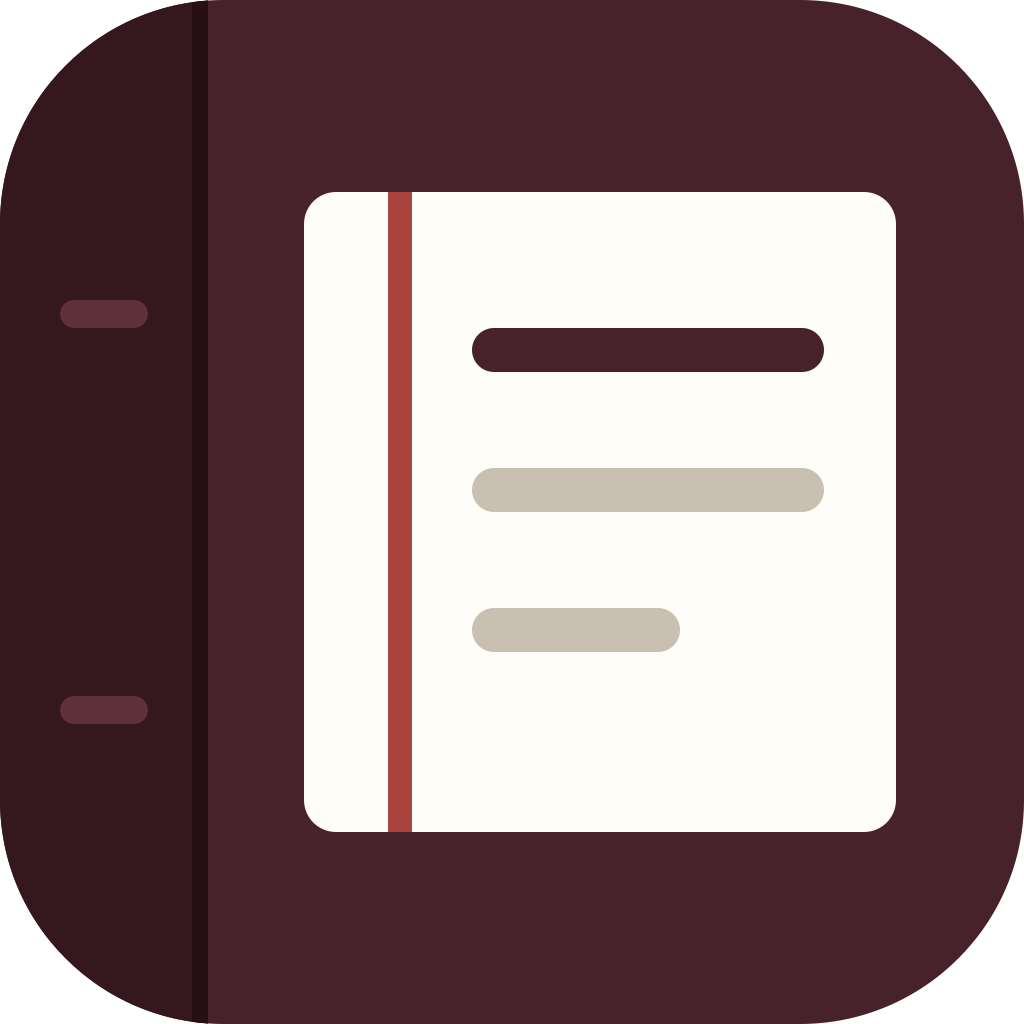
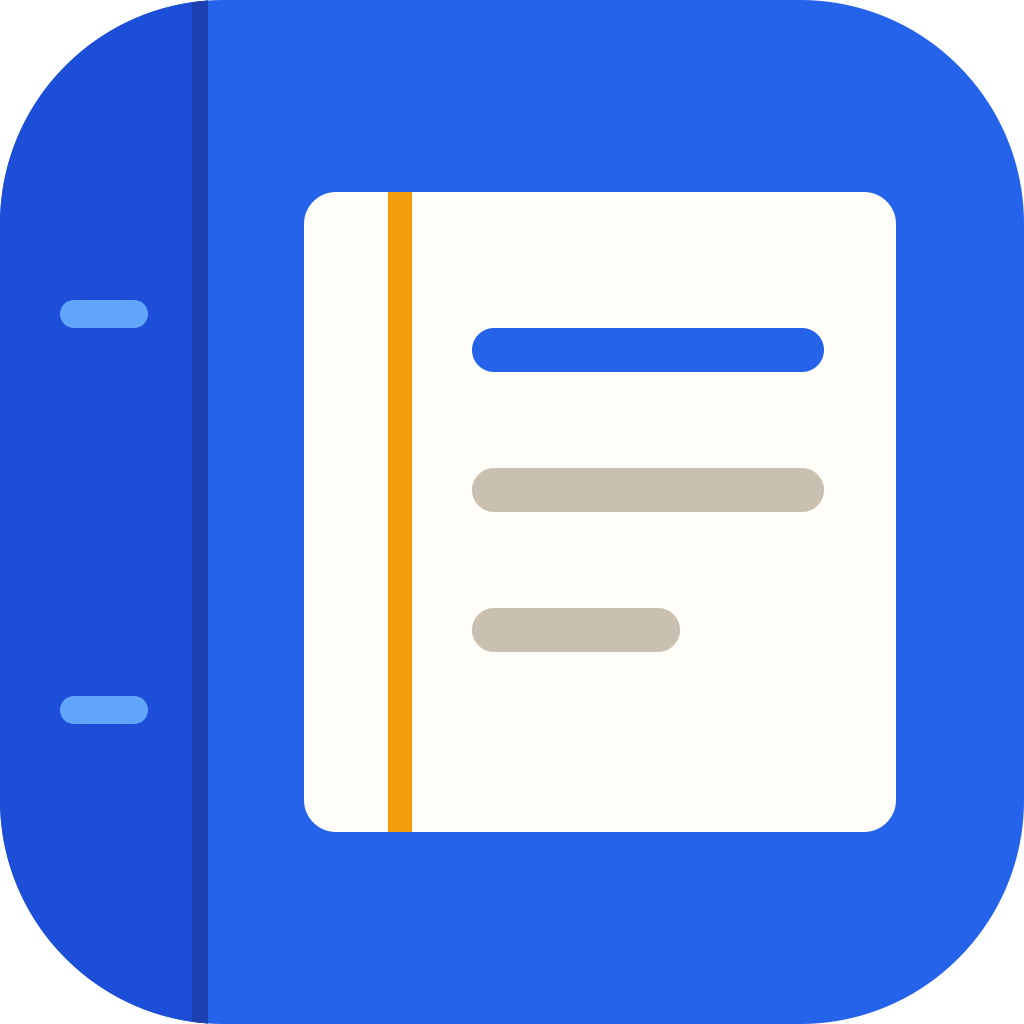
Acento azul vivo, colores con más vida, y las cifras que no cuadraban
BUG que reportaste primero: la tarjeta decía "Recaudado RD$ 96,700" y la barra
decía "RD$ 95,200 de RD$ 184,500". Dos cifras distintas para lo mismo en la
misma pantalla, porque una incluía el excedente y la otra no. Ahora las dos
muestran lo recaudado de verdad; el porcentaje se sigue calculando sobre el
capado para que la barra no pueda pasar del 100%.

Color
- El acento pasa de oxblood apagado a azul vivo #2563eb. 5.2:1 sobre blanco y
  con blanco encima, así que sirve igual de fondo de botón que de texto.
- Los estados dejan de estar lavados: verde #16a34a y ámbar #f59e0b, que se
  leen como estados y no como papel viejo.
- Los colores de iglesia se renuevan a morado, rosa, turquesa, pizarra,
  ciruela y grafito. Ninguno es verde, ámbar ni azul: esos tres ya significan
  algo (los dos estados y el acento).
- La barra de progreso agregada usa el acento mientras falte y verde solo al
  llegar al 100%. Un total no tiene "estado de pago", así que teñirla de ámbar
  era prestarle un significado que no le toca.

El borde azulado de la primera tarjeta
- Era `ring-accion/15`: el acento con opacidad sobre blanco daba ese halo
  lavanda sucio. Ahora es borde sólido y fondo azul suave.

El menú
- La opción activa era blanca sobre gris casi igual y no se distinguía. Ahora
  lleva fondo azul suave, borde y texto del acento.

La marca y el manifiesto también pasan a azul, y el .ico se regeneró.

Verificado: 18/18 pares de color pasan AA, 32 pruebas en verde, 0 objetivos de
[…]

diff --git a/src/components/Piezas.tsx b/src/components/Piezas.tsx
@@ -18,7 +18,7 @@ type PropsBoton = ButtonHTMLAttributes<HTMLButtonElement> & {
 const VARIANTES: Record<TipoBoton, string> = {
   principal: 'bg-accion text-white hover:bg-accionAlto shadow-[0_1px_2px_rgba(58,42,28,0.12)]',
   contorno: 'bg-hoja text-tinta border border-lineaFuerte hover:border-tinta3 hover:bg-hoja2',
-  suave: 'bg-[rgba(138,51,64,0.07)] text-accion hover:bg-[rgba(138,51,64,0.12)]',
+  suave: 'bg-[rgba(37,99,235,0.08)] text-accion hover:bg-[rgba(37,99,235,0.14)]',
   texto: 'text-tinta2 hover:text-tinta hover:bg-[rgba(24,24,27,0.05)]',
 }
 
@@ -89,7 +89,7 @@ export const Campo = forwardRef<HTMLInputElement, PropsCampo>(function Campo(
             'w-full min-h-[46px] rounded-pieza bg-hoja px-3 py-2 text-tinta',
             'border transition-colors duration-150',
             problema ? 'border-accion' : 'border-lineaFuerte hover:border-tinta3',
-            'focus:border-accion focus:outline-none focus:ring-2 focus:ring-[rgba(138,51,64,0.18)]',
+            'focus:border-accion focus:outline-none focus:ring-2 focus:ring-[rgba(37,99,235,0.18)]',
             'placeholder:text-tinta3',
             adorno ? 'pl-10' : '',
             className,
@@ -213,30 +213,29 @@ export function Monto({
  * Colores de etiqueta de iglesia.
  *
  * Ninguno es verde ni ámbar A PROPÓSITO: esos dos ya significan "Pagado" y
- * "Abonando" en toda la app. Un punto verde de identidad al lado de un chip de
- * estado le enseña a leer el verde de dos maneras distintas, y entonces el
- * verde deja de querer decir nada.
+ * "Abonando" en toda la app. Tampoco azul: ese es el acento de las acciones.
+ * Un color que significa dos cosas deja de significar cualquiera.
  */
 const COLORES_IGLESIA: Record<string, string> = {
-  indigo: '#4a5578',
-  pizarra: '#41525c',
-  arcilla: '#8a5a3c',
-  ciruela: '#6d4560',
-  tabaco: '#6b4a2e',
-  humo: '#59555f',
+  purpura: '#7c3aed',
+  rosa: '#db2777',
+  cyan: '#0891b2',
+  pizarra: '#475569',
+  ciruela: '#a21caf',
+  grafito: '#57534e',
 }
 
 export const NOMBRES_COLOR: { valor: string; nombre: string }[] = [
-  { valor: 'indigo', nombre: 'Azul' },
+  { valor: 'purpura', nombre: 'Morado' },
+  { valor: 'rosa', nombre: 'Rosa' },
+  { valor: 'cyan', nombre: 'Turquesa' },
   { valor: 'pizarra', nombre: 'Pizarra' },
-  { valor: 'arcilla', nombre: 'Terracota' },
   { valor: 'ciruela', nombre: 'Ciruela' },
-  { valor: 'tabaco', nombre: 'Tabaco' },
-  { valor: 'humo', nombre: 'Humo' },
+  { valor: 'grafito', nombre: 'Grafito' },
 ]
 
 export function colorIglesia(color: string | null | undefined): string {
-  return COLORES_IGLESIA[color ?? 'arcilla'] ?? COLORES_IGLESIA.arcilla
+  return COLORES_IGLESIA[color ?? 'pizarra'] ?? COLORES_IGLESIA.pizarra
 }
 
 export function EtiquetaIglesia({

diff --git a/src/pages/RegistrarPago.tsx b/src/pages/RegistrarPago.tsx
@@ -282,7 +282,7 @@ export default function RegistrarPago() {
                     'cifra w-full rounded-pieza bg-hoja2 py-3 pl-[4.2rem] pr-4 text-cifraGrande font-semibold',
                     'border transition-colors duration-150',
                     problema ? 'border-accion' : 'border-lineaFuerte',
-                    'focus:border-accion focus:outline-none focus:ring-2 focus:ring-[rgba(138,51,64,0.18)]',
+                    'focus:border-accion focus:outline-none focus:ring-2 focus:ring-[rgba(37,99,235,0.18)]',
                     'placeholder:text-tinta3',
                   ].join(' ')}
                 />
@@ -333,7 +333,7 @@ export default function RegistrarPago() {
                           'min-h-[46px] flex-1 rounded-pieza px-2 text-menuda font-medium',
                           'border transition-colors duration-150 active:scale-[0.98]',
                           metodo === m.valor
-                            ? 'border-accion bg-[rgba(138,51,64,0.08)] text-accion'
+                            ? 'border-accion bg-[rgba(37,99,235,0.09)] text-accion'
                             : 'border-lineaFuerte text-tinta2 hover:border-tinta3',
                         ].join(' ')}
                       >
@@ -446,7 +446,7 @@ function CampoFecha({ fecha, setFecha }: { fecha: string; setFecha: (v: string) 
             }
           }}
           aria-label="Fecha del pago"
-          className="w-full min-h-[46px] rounded-pieza border border-accion bg-hoja px-3 focus:outline-none focus:ring-2 focus:ring-[rgba(138,51,64,0.18)]"
+          className="w-full min-h-[46px] rounded-pieza border border-accion bg-hoja px-3 focus:outline-none focus:ring-2 focus:ring-[rgba(37,99,235,0.18)]"
         />
       ) : (
         <button
@@ -600,7 +600,7 @@ const BuscadorPersona = forwardRef<
               }
             }}
             placeholder="Escribe el nombre…"
-            className="w-full rounded-pieza border border-lineaFuerte bg-hoja2 py-3 pl-11 pr-4 text-guia transition-colors duration-150 placeholder:text-tinta3 focus:border-accion focus:outline-none focus:ring-2 focus:ring-[rgba(138,51,64,0.18)]"
+            className="w-full rounded-pieza border border-lineaFuerte bg-hoja2 py-3 pl-11 pr-4 text-guia transition-colors duration-150 placeholder:text-tinta3 focus:border-accion focus:outline-none focus:ring-2 focus:ring-[rgba(37,99,235,0.18)]"
           />
         </div>
         <p className="mt-2 text-menuda text-tinta3">

diff --git a/src/pages/Inicio.tsx b/src/pages/Inicio.tsx
@@ -5,7 +5,7 @@ import { api } from '../api/cliente'
 import type { Resumen } from '../api/tipos'
 import { formatoRD } from '../lib/dinero'
 import { cuentaRegresiva, fechaLarga, fechaRelativa } from '../lib/fechas'
-import { calcularEstado, proporcionPagada } from '../lib/estados'
+import { proporcionPagada } from '../lib/estados'
 import { Boton, EstadoVacio, EtiquetaIglesia, Monto } from '../components/Piezas'
 import { IconoAdelante, IconoAviso, IconoMas, IconoPago } from '../components/Iconos'
 
@@ -103,7 +103,7 @@ export default function Inicio() {
             <span className="text-tinta2">de lo que suman todos los cupos</span>
           </p>
           <p className="text-menuda text-tinta2">
-            <span className="cifra">{formatoRD(totales.recaudado)}</span> de{' '}
+            <span className="cifra">{formatoRD(totales.recaudado_real)}</span> de{' '}
             <span className="cifra">{formatoRD(totales.meta)}</span>
           </p>
         </div>
@@ -120,7 +120,7 @@ export default function Inicio() {
           <div
             className="h-full origin-left rounded-full transition-transform duration-[420ms] ease-salida"
             style={{
-              background: `var(--${calcularEstado(totales.recaudado, totales.meta)}-marca)`,
+              background: proporcion >= 1 ? 'var(--pagado-marca)' : 'var(--accion)',
               transform: `scaleX(${proporcion})`,
             }}
           />
@@ -225,7 +225,8 @@ export default function Inicio() {
                         <span
                           className="block h-full origin-left rounded-full transition-transform duration-[420ms] ease-salida"
                           style={{
-                            background: `var(--${calcularEstado(g.meta - g.pendiente, g.meta)}-marca)`,
+                            background:
+                              g.pendiente === 0 ? 'var(--pagado-marca)' : 'var(--accion)',
                             transform: `scaleX(${proporcionPagada(g.meta - g.pendiente, g.meta)})`,
                           }}
                         />
@@ -262,7 +263,9 @@ function Metrica({
   fuerte?: boolean
 }) {
   return (
-    <div className={`hoja p-4 ${fuerte ? 'ring-1 ring-accion/15' : ''}`}>
+    <div
+      className={`hoja p-4 ${fuerte ? '!border-accionBorde bg-accionSuave' : ''}`}
+    >
       <p className="rotulo">{rotulo}</p>
       <p
         className={`cifra mt-1.5 font-semibold leading-none ${

diff --git a/src/estilos.css b/src/estilos.css
@@ -35,31 +35,35 @@
 
   /* Barra lateral: clara, como Linear o Notion. Un bloque de color saturado
      a la izquierda es lo que más envejecía la pantalla. */
-  --lomo: #f2f2f3;
+  --lomo: #f1f1f3;
   --lomo-texto: #52525b;
   --lomo-activo: #ffffff;
 
-  /* Acento: lo único de color. Es la identidad que sobrevive al rediseño. */
-  --accion: #8a3340;
-  --accion-alto: #71272f;
-  --accion-suave: #f7eef0;
+  /* Acento: azul vivo, lo único de color de la interfaz.
+     Contraste 5.2:1 sobre blanco y sobre él, así que sirve igual de fondo de
+     botón que de texto. */
+  --accion: #2563eb;
+  --accion-alto: #1d4ed8;
+  --accion-suave: #eff6ff;
+  --accion-borde: #bfdbfe;
 
-  /* Estados de pago — mismos colores en toda la app, siempre con texto */
-  --pagado-fondo: #e7f6ef;
-  --pagado-tinta: #116149;
-  --pagado-marca: #15866a;
+  /* Estados de pago — mismos colores en toda la app, siempre con texto.
+     Vivos, no apagados: un verde y un ámbar lavados se leen a documento viejo. */
+  --pagado-fondo: #dcfce7;
+  --pagado-tinta: #166534;
+  --pagado-marca: #16a34a;
 
-  --abonando-fondo: #fdf3e0;
-  --abonando-tinta: #8a5308;
-  --abonando-marca: #d08b1c;
+  --abonando-fondo: #fef3c7;
+  --abonando-tinta: #b45309;
+  --abonando-marca: #f59e0b;
 
-  --sinpagos-fondo: #f0f0f2;
+  --sinpagos-fondo: #f4f4f5;
   --sinpagos-tinta: #52525b;
-  --sinpagos-marca: #a1a1aa;
+  --sinpagos-marca: #d4d4d8;
 
   /* Aviso tranquilo (excedente, notas del sistema) */
-  --aviso-fondo: #e6f2f4;
-  --aviso-tinta: #1f5f6b;
+  --aviso-fondo: #eff6ff;
+  --aviso-tinta: #1e40af;
 
   /* Impresión: en papel el fondo es el papel de verdad. */
   --papel-impreso: #ffffff;

diff --git a/index.html b/index.html
@@ -26,8 +26,8 @@
       cualquier evocación.
 
       OWN-WORLD: Neutros fríos —lienzo #f7f7f8, superficies blancas, rayas
-      #e8e8ea— con UN acento oxblood (#8a3340) reservado a las acciones y a la
-      entrada activa. Barra lateral clara, del tono del lienzo, separada por
+      #e8e8ea— con UN acento azul vivo (#2563eb) reservado a las acciones, a la
+      entrada activa y al progreso agregado. Barra lateral clara, del tono del lienzo, separada por
       una raya: el bloque de color saturado a la izquierda era lo que más
       envejecía la pantalla. Fira Sans en una sola familia con cifras
       tabulares. Verde/ámbar/gris solo para estado de pago y siempre con texto;
@@ -44,9 +44,10 @@
 
       FORM: El brief pedía "libreta de tesorería moderna" (CLAUDE.md §Diseño) y
       la primera lectura fue literal: papel crema, lomo de tela, trama alterna,
-      raya de margen roja, cifras de 56px. El usuario lo rechazó tres veces por
-      leerse viejo. Lo literal se retiró y la identidad se quedó en el acento,
-      las cifras tabulares y la disciplina de las rayas. Seed 1b3f00e6.
+      raya de margen roja, cifras de 56px. El usuario lo rechazó por leerse
+      viejo, y después pidió color vivo tirando a azul, tipo Notion. La
+      identidad quedó en el acento azul, las cifras tabulares y la disciplina de
+      las rayas. Seed 1b3f00e6.
 
       FINISH: unreviewed and undocumented is unfinished; this build ends with
       the finish review, the verdict, DESIGN.md, and every shipping raster

diff --git a/src/components/FiltroMenu.tsx b/src/components/FiltroMenu.tsx
@@ -110,7 +110,7 @@ export function FiltroMenu({
           'inline-flex min-h-[44px] max-w-[280px] items-center gap-2 rounded-pieza px-3 text-menuda',
           'border transition-colors duration-150 active:scale-[0.98]',
           activo
-            ? 'border-accion bg-[rgba(138,51,64,0.08)] font-medium text-accion'
+            ? 'border-accion bg-[rgba(37,99,235,0.09)] font-medium text-accion'
             : 'border-linea text-tinta2 hover:border-lineaFuerte hover:bg-hoja2 hover:text-tinta',
         ].join(' ')}
       >
@@ -147,7 +147,7 @@ export function FiltroMenu({
                 alElegir(undefined)
               }
             }}
-            className="-mr-1 flex h-7 w-7 shrink-0 cursor-pointer items-center justify-center rounded-full transition-colors hover:bg-[rgba(138,51,64,0.16)]"
+            className="-mr-1 flex h-7 w-7 shrink-0 cursor-pointer items-center justify-center rounded-full transition-colors hover:bg-[rgba(37,99,235,0.16)]"
           >
             <IconoCerrar tam={14} />
           </span>
@@ -243,7 +243,7 @@ function BotonOpcion({
       className={[
         'flex min-h-[44px] w-full items-center gap-2.5 px-3 text-left text-menuda',
         'transition-colors duration-150',
-        elegida ? 'bg-[rgba(138,51,64,0.08)] font-medium text-accion' : 'hover:bg-hoja2',
+        elegida ? 'bg-[rgba(37,99,235,0.09)] font-medium text-accion' : 'hover:bg-hoja2',
       ].join(' ')}
     >
       {children}

diff --git a/server/db/seed.ts b/server/db/seed.ts
@@ -9,11 +9,11 @@ import { conectar } from './conexion'
 import { normalizar } from '../../src/lib/fechas'
 
 const IGLESIAS = [
-  { nombre: 'Iglesia Central de Villa Duarte', color: 'indigo', pastor: 'Ramón Emilio Guzmán' },
+  { nombre: 'Iglesia Central de Villa Duarte', color: 'purpura', pastor: 'Ramón Emilio Guzmán' },
   // Mismo pastor que la anterior: así el filtro por pastor agrupa dos iglesias
   // y se ve para qué sirve.
-  { nombre: 'Iglesia Getsemaní, Los Alcarrizos', color: 'pizarra', pastor: 'Ramón Emilio Guzmán' },
-  { nombre: 'Iglesia Monte Sinaí, San Isidro', color: 'arcilla', pastor: 'Wilfredo Antonio Peña' },
+  { nombre: 'Iglesia Getsemaní, Los Alcarrizos', color: 'cyan', pastor: 'Ramón Emilio Guzmán' },
+  { nombre: 'Iglesia Monte Sinaí, San Isidro', color: 'rosa', pastor: 'Wilfredo Antonio Peña' },
 ]
 
 const CATEGORIAS = [

diff --git a/src/components/Selector.tsx b/src/components/Selector.tsx
@@ -110,7 +110,7 @@ export function Selector({
           problema
             ? 'border-accion'
             : abierto
-              ? 'border-accion ring-2 ring-[rgba(138,51,64,0.18)]'
+              ? 'border-accion ring-2 ring-[rgba(37,99,235,0.18)]'
               : 'border-lineaFuerte hover:border-tinta3',
         ].join(' ')}
       >
@@ -182,7 +182,7 @@ export function Selector({
                   className={[
                     'flex min-h-[44px] w-full items-center gap-2.5 px-3 py-1.5 text-left',
                     'transition-colors duration-150',
-                    o.id === valor ? 'bg-[rgba(138,51,64,0.08)] text-accion' : 'hover:bg-hoja2',
+                    o.id === valor ? 'bg-[rgba(37,99,235,0.09)] text-accion' : 'hover:bg-hoja2',
                   ].join(' ')}
                 >
                   {o.color && (

diff --git a/src/components/Marco.tsx b/src/components/Marco.tsx
@@ -54,8 +54,8 @@ export function Marco({ evento, children }: { evento: Evento | null; children: R
                     'flex min-h-[44px] items-center gap-2.5 rounded-pieza px-2.5 text-menuda',
                     'transition-colors duration-150',
                     isActive
-                      ? 'bg-lomoActivo font-semibold text-accion shadow-[0_1px_2px_rgba(24,24,27,0.07)]'
-                      : 'font-medium text-tinta2 hover:bg-[rgba(24,24,27,0.045)] hover:text-tinta',
+                      ? 'bg-accionSuave font-semibold text-accion ring-1 ring-accionBorde'
+                      : 'font-medium text-tinta2 hover:bg-[rgba(24,24,27,0.05)] hover:text-tinta',
                   ].join(' ')
                 }
               >

diff --git a/src/pages/Personas.tsx b/src/pages/Personas.tsx
@@ -144,7 +144,7 @@ export default function Personas() {
             onChange={(e) => setBuscar(e.target.value)}
             placeholder="Buscar por nombre…"
             aria-label="Buscar persona por nombre"
-            className="h-[44px] w-full rounded-pieza border border-linea bg-hoja pl-11 pr-4 text-guia transition-colors duration-150 placeholder:text-tinta3 focus:border-accion focus:outline-none focus:ring-2 focus:ring-[rgba(138,51,64,0.18)]"
+            className="h-[44px] w-full rounded-pieza border border-linea bg-hoja pl-11 pr-4 text-guia transition-colors duration-150 placeholder:text-tinta3 focus:border-accion focus:outline-none focus:ring-2 focus:ring-[rgba(37,99,235,0.18)]"
           />
         </div>
 

diff --git a/src/pages/FichaPersona.tsx b/src/pages/FichaPersona.tsx
@@ -307,7 +307,7 @@ export default function FichaPersona() {
                           onClick={() => setAAnular(p)}
                           aria-label={`Anular el pago de ${formatoRD(p.monto)}`}
                           title="Anular este pago"
-                          className="flex h-11 w-11 items-center justify-center rounded-pieza text-tinta2 transition-colors hover:bg-[rgba(138,51,64,0.09)] hover:text-accion"
+                          className="flex h-11 w-11 items-center justify-center rounded-pieza text-tinta2 transition-colors hover:bg-[rgba(37,99,235,0.09)] hover:text-accion"
                         >
                           <IconoAnular tam={18} />
                         </button>

diff --git a/src/pages/Ajustes.tsx b/src/pages/Ajustes.tsx
@@ -756,7 +756,7 @@ function DialogoIglesia({
                 className={[
                   'inline-flex min-h-[44px] items-center gap-2 rounded-pieza px-3 text-menuda',
                   'border transition-colors duration-150 active:scale-[0.98]',
-                  color === c.valor ? 'border-accion bg-[rgba(138,51,64,0.07)] font-medium' : 'border-lineaFuerte text-tinta2 hover:border-tinta3',
+                  color === c.valor ? 'border-accion bg-[rgba(37,99,235,0.08)] font-medium' : 'border-lineaFuerte text-tinta2 hover:border-tinta3',
                 ].join(' ')}
               >
                 <span
